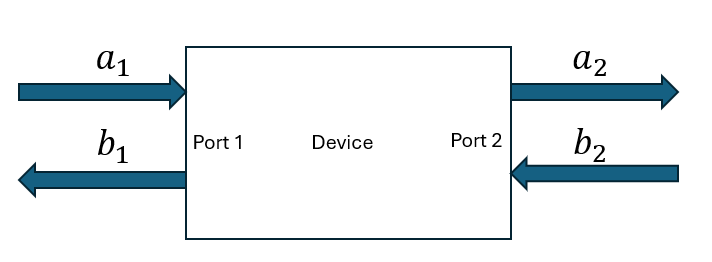
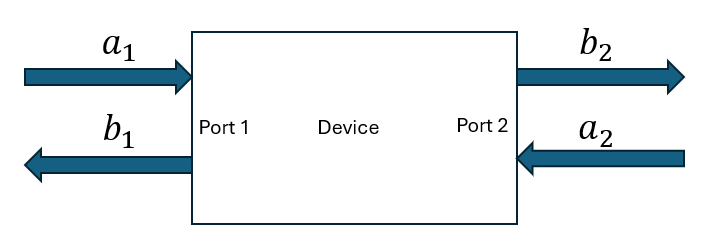
spara

Changed region(s): [[0.0, 0.1167, 0.9972, 0.9625], [0.2493, 0.1167, 0.7479, 0.1458], [0.4363, 0.4958, 0.5609, 0.5833]]

diff --git a/src/pages/RF/Sparametrit.jsx b/src/pages/RF/Sparametrit.jsx
@@ -6,6 +6,7 @@ import { useState } from "react";
 
 function Sparametrit() {
   const [open, setOpen] = useState(false);
+  const [open2, setOpen2] = useState(false);
   return (
     <div>
       <h1>Sparametrit</h1>
@@ -57,6 +58,44 @@ function Sparametrit() {
                   tarkoitettu GPS/Glonass sovelluksiin. Tähän viittaa myös
                   tiedoston lopussa olevat kohinakertoimet, käsittelemme näitä
                   eri osiossa.
+                </p>
+              </Card.Text>
+            </Card.Body>
+          </Card>
+        </div>
+      </Collapse>
+      <Card>
+        <Card.Body>
+          <strong>Harjoitus 2:</strong> S-parametrit ovat käteviä
+          suuritaajuisten signaalien kanssa. Mieti miksi niitä ei käytetä
+          matalilla taajuuksilla vaikkapa audiotekniikassa?
+        </Card.Body>
+      </Card>
+      <Button
+        onClick={() => setOpen2(!open2)}
+        aria-controls="example-collapse-text"
+        aria-expanded={open2}
+        variant="primary"
+      >
+        Näytä/piilota esimerkkiratkaisu
+      </Button>
+      <Collapse in={open2}>
+        <div id="example-collapse-text">
+          <Card className="mt-4">
+            <Card.Header>
+              <h4>Pohdintaa</h4>
+            </Card.Header>
+            <Card.Body>
+              <Card.Text>
+                <p>
+                  S-parametrit määritellään etenevän ja heijastuvan aallon
+                  suhteina. Matalilla taajuuksilla aallonpituus on hyvin suuri
+                  verrattuna laitteiden ja siirtolinjojen dimensioihin. Tällöin
+                  heijastuvien aaltojen energia on hyvin pieni ja vaihe-erojen
+                  määritys olisi hankalaa, jolloin niitä ei voida mitata
+                  tarkasti. Tällöin käytetään perinteisempiä
+                  piirianalyysimenetelmiä kuten impedanssien ja
+                  siirtofunktioiden laskentaa.
                 </p>
               </Card.Text>
             </Card.Body>

diff --git a/public/RFkurssi/Sparametrit_md.md b/public/RFkurssi/Sparametrit_md.md
@@ -16,8 +16,8 @@ S-parametrit, eli sirontaparametrit, kuvaavat miten sähkömagneettiset aallot e
 
 1. **Eteneviin ja heijastuviin aaltoihin perustuvat suureet:**
 
-   - $ a*i $ on etenevä aalto portissa \_i*.
-   - $ b*i $ on heijastuva aalto portissa \_i*.
+   - a<sub>_i_</sub> on etenevä aalto portissa _i_.
+   - b<sub>_i_</sub> on heijastuva aalto portissa _i_.
 
 2. **S-parametrien määritelmät:**
    - S<sub>ij</sub> kuvaa heijastuvan aallon portissa _i_ ja etenevän aallon portissa _j_ välistä suhdetta, kun kaikki muut portit ovat sovitetut (eli niihin ei kohdistu heijastuksia).
@@ -95,6 +95,10 @@ Missä:
 - **Kompleksiset arvot**: S-parametrit ovat yleensä kompleksisia lukuja, jotka sisältävät sekä amplituditiedon että vaihekulman.
 
 - **Magnitudi ja vaihe**: S-parametrien kompleksinen esitys voidaan esittää magnitudin ja vaiheen avulla. Esimerkiksi, S<sub>21</sub> = |S<sub>21</sub>|$ e^{j\theta} $, missä |S<sub>21</sub>| on signaalin magnitudi ja $ \theta $ on vaihekulma.
+
+- **Taajuusriippuvuus**: S-parametrit riippuvat taajuudesta, joten ne ilmoitetaan aina tiettyä taajuutta kohden, katso esimerkki alla.
+
+- **Olosuhderiippuvuus**: S-parametrit voivat riippua myös aktiivipiirin biasoinnista. Esimerkiksi vahvistintransistorin S-parametrit riippuvat transistorin kollektori-jännitteestä ja virrasta, katso esimerkki alla. S-parametreilla on usein myös lämpötilariippuvuus.
 
 ### Sovellukset
 
